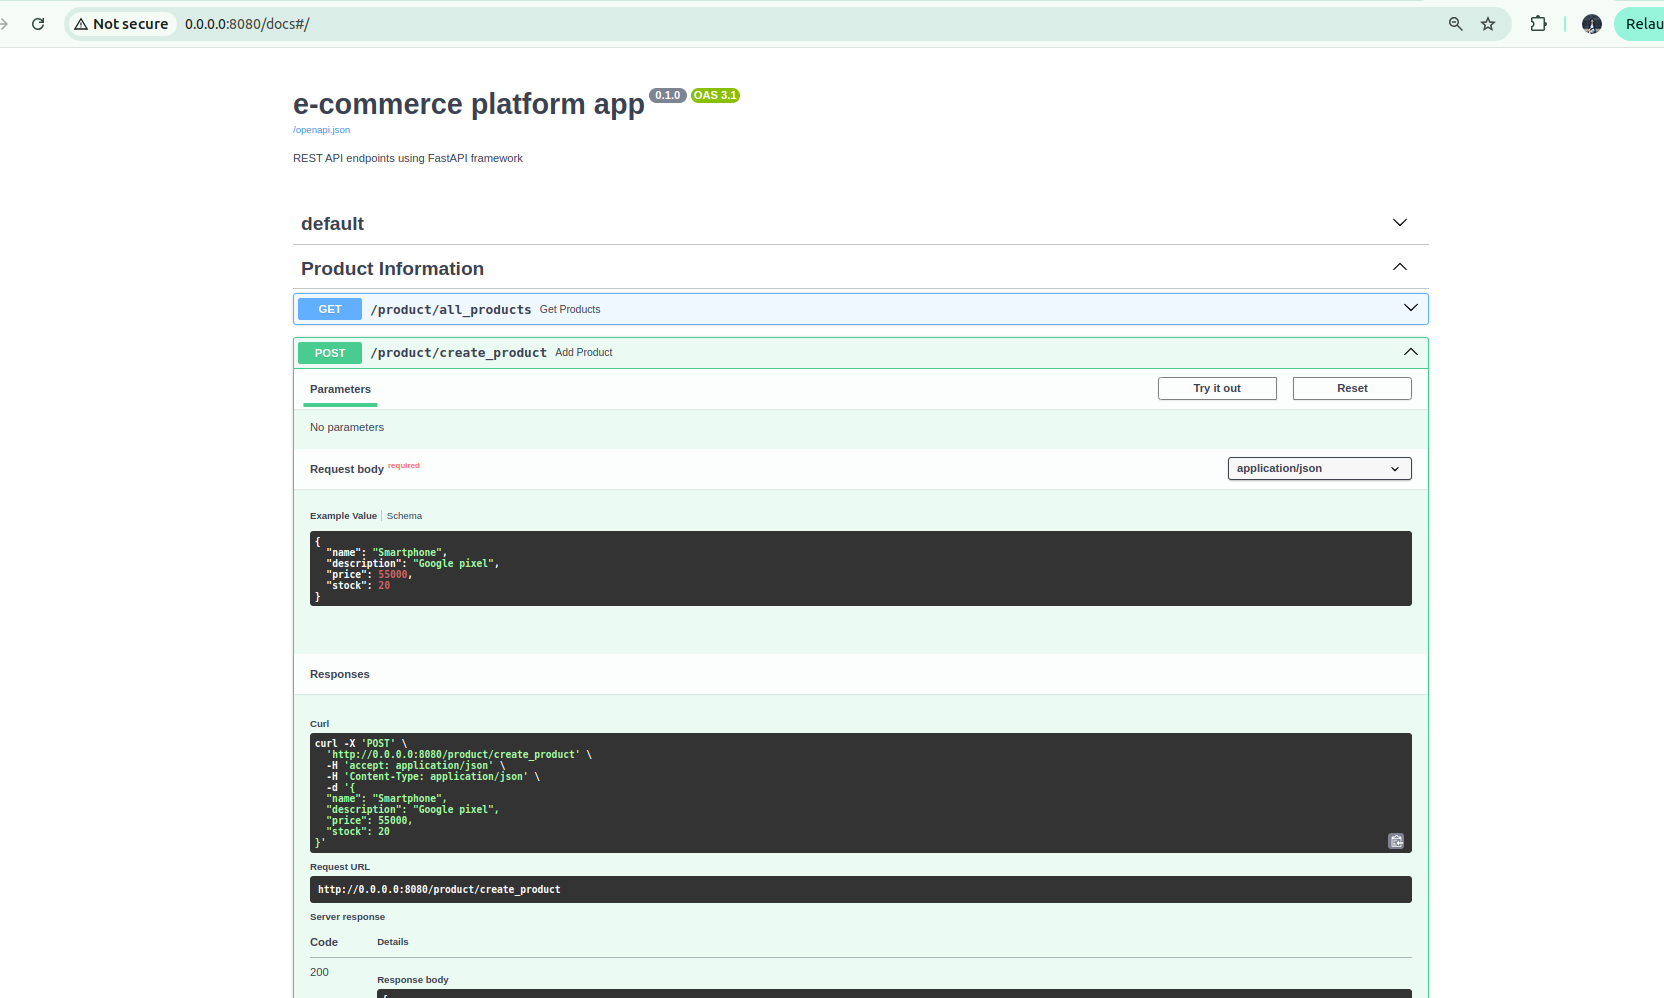
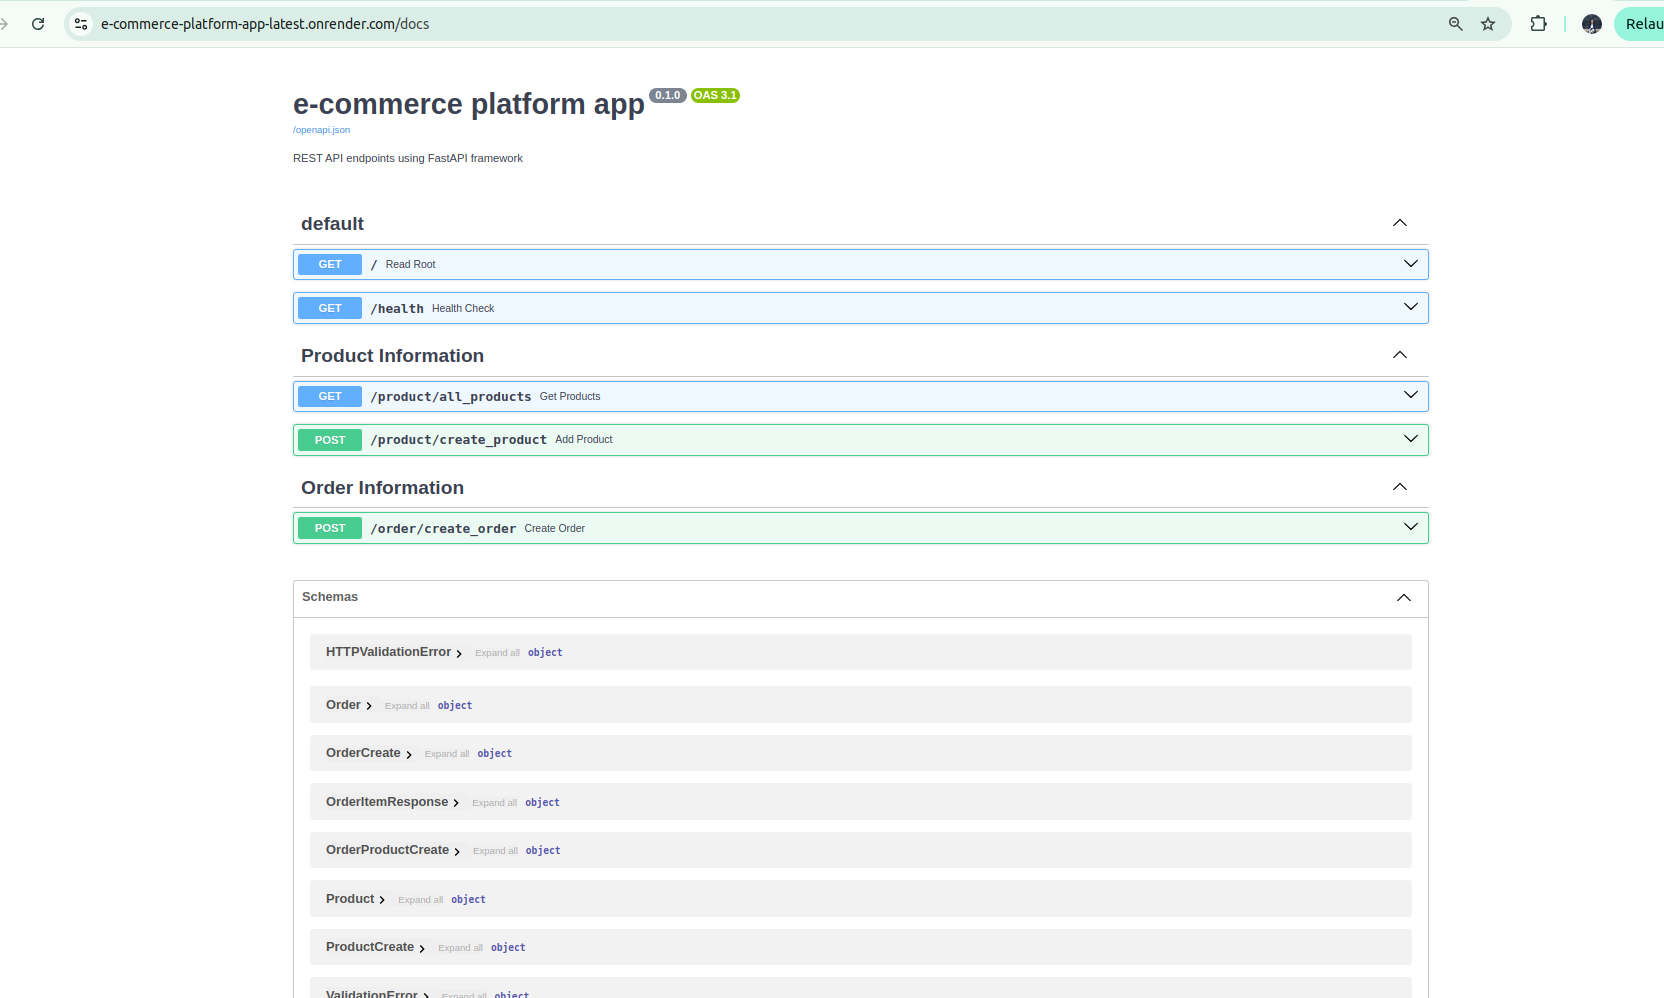
add snapshot

diff --git a/README.md b/README.md
@@ -1,7 +1,7 @@
 # E-Commerce Platform API
 
 A production-grade RESTful API for an e-commerce platform built with FastAPI, PostgreSQL, and Docker.
-
+Live Render hosting URL - https://e-commerce-platform-app-latest.onrender.com/docs
 ![api.png](api.png)
 
 ## Features
@@ -165,7 +165,7 @@ Render is a cloud platform designed for deploying and hosting applications and s
 process of building, deploying, and managing apps by abstracting much of the infrastructure management, 
 allowing developers to focus on their application code.
 
-this backend service is hosted on render -  
+this backend service is hosted on render -   https://e-commerce-platform-app-latest.onrender.com/docs
 
 ## Future Scope
 - Authentication using OAuth
